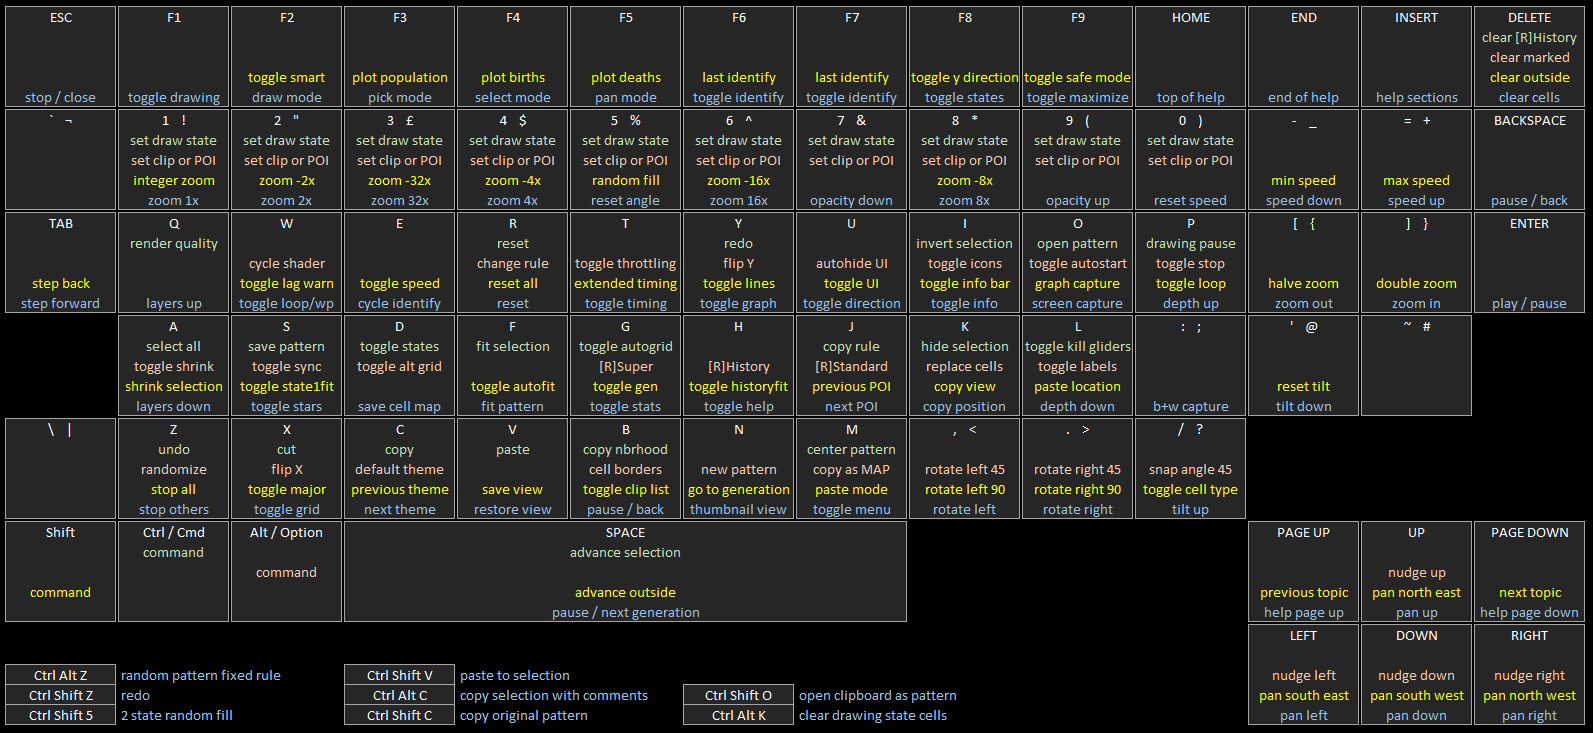
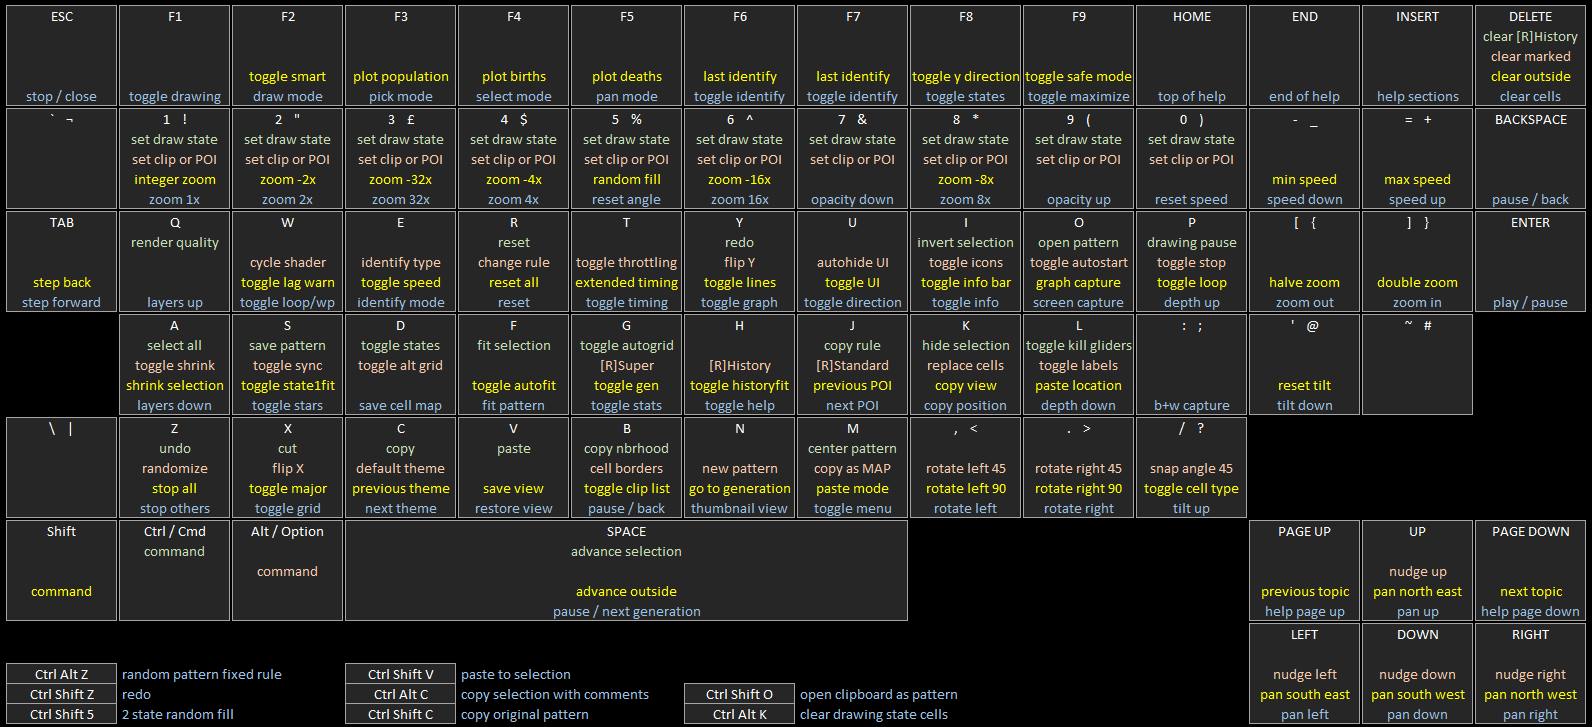
fixed Identify results UI issues

diff --git a/js/lifeview.js b/js/lifeview.js
@@ -74,12 +74,12 @@ This file is part of LifeViewer
 	ViewConstants = {
 		// identify display modes
 		/** @const {number} */ identifyDisplayResults : 0,
-		/** @const {number} */ identifyDisplayPeriod: 1,
-		/** @const {number} */ identifyDisplayFrequency : 2,
+		/** @const {number} */ identifyDisplayTable: 1,
+		/** @const {number} */ identifyDisplayMap : 2,
 
 		// identify display type
-		/** @const {number} */ identifyDisplayTable : 0,
-		/** @const {number} */ identifyDisplayMap : 1,
+		/** @const {number} */ identifyDisplayPeriod : 0,
+		/** @const {number} */ identifyDisplayFrequency : 1,
 
 		// settings prefix
 		/** @const {string} */ settingsPrefix : "LV",
@@ -336,7 +336,7 @@ This file is part of LifeViewer
 		/** @const {string} */ externalViewerTitle : "LifeViewer",
 
 		// build version
-		/** @const {number} */ versionBuild : 1254,
+		/** @const {number} */ versionBuild : 1255,
 
 		// standard edition name
 		/** @const {string} */ standardEdition : "Standard",
@@ -1001,11 +1001,11 @@ This file is part of LifeViewer
 		// refresh rate
 		/** @type {number} */ this.refreshRate = Controller.refreshRate;
 
-		// identify display mode (results, periods or frequencies)
+		// identify display mode (results, table or map)
 		/** @type {number} */ this.identifyDisplayMode = ViewConstants.identifyDisplayResults;
 
 		// identify display type for periods or frequencies
-		/** @type {number} */ this.identifyDisplayType = ViewConstants.identifyDisplayTable;
+		/** @type {number} */ this.identifyDisplayType = ViewConstants.identifyDisplayPeriod;
 
 		// last failure reason from PatternManager
 		/** @type {string} */ this.lastFailReason = "";
@@ -4751,7 +4751,7 @@ This file is part of LifeViewer
 
 	// download cell period map
 	View.prototype.downloadCellMap = function(/** @type {View} */ me) {
-		var	/** @type {HTMLCanvasElement} */ cellCanvas = me.identifyDisplayMode === ViewConstants.identifyDisplayPeriod ? me.engine.cellPeriodCanvas : me.engine.cellFrequencyCanvas;
+		var	/** @type {HTMLCanvasElement} */ cellCanvas = me.identifyDisplayType === ViewConstants.identifyDisplayPeriod ? me.engine.cellPeriodCanvas : me.engine.cellFrequencyCanvas;
 
 		// create a link
 		if (me.lastIdentifyType !== "Oscillator") {
@@ -7163,20 +7163,20 @@ This file is part of LifeViewer
 			// don't display if Help, Errors or Settings open
 			if (me.displayHelp === 0 && me.displayErrors === 0 && me.navToggle.current[0] === false) {
 				switch (me.identifyDisplayMode) {
-					case ViewConstants.identifyDisplayPeriod:
-						if (me.identifyDisplayType === ViewConstants.identifyDisplayTable) {
+					case ViewConstants.identifyDisplayTable:
+						if (me.identifyDisplayType === ViewConstants.identifyDisplayPeriod) {
 							// draw cell period table below the main banner
 							me.engine.drawCellPeriodTable(me.identifyBannerLabel);
 						} else {
-							// draw cell period map
-							me.engine.drawCellPeriodMap(me.identifyBannerLabel);
+							// draw cell period frequency below the main banner
+							me.engine.drawCellFrequencyTable(me.identifyBannerLabel);
 						}
 						break;
 
-					case ViewConstants.identifyDisplayFrequency:
-						if (me.identifyDisplayType === ViewConstants.identifyDisplayTable) {
-							// draw cell period frequency below the main banner
-							me.engine.drawCellFrequencyTable(me.identifyBannerLabel);
+					case ViewConstants.identifyDisplayMap:
+						if (me.identifyDisplayType === ViewConstants.identifyDisplayPeriod) {
+							// draw cell period map
+							me.engine.drawCellPeriodMap(me.identifyBannerLabel);
 						} else {
 							// draw cell frequency map
 							me.engine.drawCellFrequencyMap(me.identifyBannerLabel);
@@ -7423,12 +7423,12 @@ This file is part of LifeViewer
 		this.identifyModeToggle.deleted = hide || !this.resultsDisplayed || this.engine.cellPeriod === null || settingsMenuOpen;
 		this.identifyTypeToggle.deleted = hide || !this.resultsDisplayed || this.engine.cellPeriod === null || settingsMenuOpen;
 		this.identifySaveCellMapButton.deleted = hide || !this.resultsDisplayed || this.engine.cellPeriod === null || settingsMenuOpen;
-		this.identifySaveCellMapButton.locked = !(this.identifyDisplayMode !== ViewConstants.identifyDisplayResults && this.identifyDisplayType === ViewConstants.identifyDisplayMap);
+		this.identifySaveCellMapButton.locked = (this.identifyDisplayMode !== ViewConstants.identifyDisplayMap);
 
 		// identify results
-		shown = shown || !(this.identifyDisplayMode === ViewConstants.identifyDisplayResults || this.identifyDisplayType === ViewConstants.identifyDisplayTable);
+		shown = shown || this.identifyDisplayMode === ViewConstants.identifyDisplayMap; 
 		this.identifyBannerLabel.deleted = shown;
-		shown = shown || this.identifyDisplayMode !== ViewConstants.identifyDisplayResults;
+		shown = shown || (this.lastIdentifyType === "Oscillator" && this.identifyDisplayMode !== ViewConstants.identifyDisplayResults);
 		this.identifyCellsLabel.deleted = shown;
 		this.identifyBoxLabel.deleted = shown || (this.engine.isHex || this.engine.isTriangular);
 		this.identifyDirectionLabel.deleted = shown || (this.lastIdentifyType !== "Spaceship") || (this.engine.isHex || this.engine.isTriangular);
@@ -7453,7 +7453,7 @@ This file is part of LifeViewer
 		this.identifyVolatilityValueLabel.deleted = shown || (this.lastIdentifyType !== "Oscillator");
 
 		// identify page up and down buttons
-		shown = hide || !this.resultsDisplayed || (!((this.identifyDisplayMode === ViewConstants.identifyDisplayPeriod || this.identifyDisplayMode === ViewConstants.identifyDisplayFrequency) && this.identifyDisplayType === ViewConstants.identifyDisplayTable) || this.engine.tableMaxRow === 0 || settingsMenuOpen);
+		shown = hide || !this.resultsDisplayed || (this.identifyDisplayMode !== ViewConstants.identifyDisplayTable) || this.engine.tableMaxRow === 0 || settingsMenuOpen;
 		this.identifyPageUpButton.deleted = shown;
 		this.identifyPageDownButton.deleted = shown;
 
@@ -11429,7 +11429,7 @@ This file is part of LifeViewer
 							me.dragErrors(me, y);
 						} else {
 							// check if Cell Period Table or Cell Frequency Table are displayed
-							if (me.resultsDisplayed && ((me.identifyDisplayMode === ViewConstants.identifyDisplayPeriod || me.identifyDisplayMode === ViewConstants.identifyDisplayFrequency) && me.identifyDisplayType === ViewConstants.identifyDisplayTable) && me.engine.tableMaxRow !== 0) {
+							if (me.resultsDisplayed && (me.identifyDisplayMode === ViewConstants.identifyDisplayTable) && me.engine.tableMaxRow !== 0) {
 								me.dragTable(me, y);
 							} else {
 								// check if panning
@@ -16867,11 +16867,11 @@ This file is part of LifeViewer
 
 	// update identify display
 	View.prototype.updateIdentifyDisplay = function() {
-		if (this.identifyDisplayType === ViewConstants.identifyDisplayTable) {
-			if (this.identifyDisplayMode === ViewConstants.identifyDisplayPeriod) {
+		if (this.identifyDisplayMode === ViewConstants.identifyDisplayTable) {
+			if (this.identifyDisplayType === ViewConstants.identifyDisplayPeriod) {
 				this.engine.createPeriodTableRowNumbers(this.identifyBannerLabel);
 			} else {
-				if (this.identifyDisplayMode === ViewConstants.identifyDisplayFrequency) {
+				if (this.identifyDisplayType === ViewConstants.identifyDisplayFrequency) {
 					this.engine.createFrequencyTableRowNumbers(this.identifyBannerLabel);
 				}
 			}
@@ -18352,12 +18352,12 @@ This file is part of LifeViewer
 		this.identifyCloseButton.toolTip = "close results [Esc]";
 
 		// identify results display mode
-		this.identifyModeToggle = this.viewMenu.addListItem(this.toggleIdentifyDisplayMode, Menu.northEast, -40, 45, 40, 120, ["Res", "Per", "Frq"], this.identifyDisplayMode, Menu.single);
+		this.identifyModeToggle = this.viewMenu.addListItem(this.toggleIdentifyDisplayMode, Menu.northEast, -40, 45, 40, 120, ["Res", "Tbl", "Map"], this.identifyDisplayMode, Menu.single);
 		this.identifyModeToggle.toolTip = ["show Identify results [Shift F6]", "cell periods [E]", "cell frequencies [E]"];
 		this.identifyModeToggle.setFont("15px Arial");
 		this.identifyModeToggle.textOrientation = Menu.horizontal;
 
-		this.identifyTypeToggle = this.viewMenu.addListItem(this.toggleIdentifyDisplayType, Menu.northEast, -40, 45, 40, 80, ["Tbl", "Map"], this.identifyDisplayType, Menu.single);
+		this.identifyTypeToggle = this.viewMenu.addListItem(this.toggleIdentifyDisplayType, Menu.northEast, -40, 45, 40, 80, ["Per", "Frq"], this.identifyDisplayType, Menu.single);
 		this.identifyTypeToggle.toolTip = ["table [" + this.altKeyText + " E]", "map [" + this.altKeyText + " E]"];
 		this.identifyTypeToggle.setFont("15px Arial");
 		this.identifyTypeToggle.textOrientation = Menu.horizontal;
@@ -19807,6 +19807,10 @@ This file is part of LifeViewer
 		if (me.starField) {
 			me.starField.starColour = new Colour(255, 255, 255);
 		}
+
+		// reset identify display mode and type
+		me.identifyModeToggle.current = me.toggleIdentifyDisplayMode(ViewConstants.identifyDisplayResults, true, me);
+		me.identifyTypeToggle.current = me.toggleIdentifyDisplayType(ViewConstants.identifyDisplayPeriod, true, me);
 
 		// disable HROT non-deterministic mode
 		me.engine.HROT.useRandom = false;

diff --git a/js/keys.js b/js/keys.js
@@ -361,11 +361,11 @@ This file is part of LifeViewer
 
 					// e for toggle identify display type
 					case 69:
-						// toggle identify display type (table or map)
+						// toggle identify display type (period or frequency)
 						if (me.lastIdentifyType === "Oscillator" && me.engine.cellPeriod !== null) {
 							me.identifyDisplayType += 1;
-							if (me.identifyDisplayType > ViewConstants.identifyDisplayMap) {
-								me.identifyDisplayType = ViewConstants.identifyDisplayTable;
+							if (me.identifyDisplayType > ViewConstants.identifyDisplayFrequency) {
+								me.identifyDisplayType = ViewConstants.identifyDisplayPeriod;
 							}
 							me.identifyTypeToggle.current = me.toggleIdentifyDisplayType(me.identifyDisplayType, true, me);
 						}
@@ -861,7 +861,7 @@ This file is part of LifeViewer
 							// toggle identify display mode
 							if (me.lastIdentifyType === "Oscillator" && me.engine.cellPeriod !== null) {
 								me.identifyDisplayMode += 1;
-								if (me.identifyDisplayMode > ViewConstants.identifyDisplayFrequency) {
+								if (me.identifyDisplayMode > ViewConstants.identifyDisplayMap) {
 									me.identifyDisplayMode = ViewConstants.identifyDisplayResults;
 								}
 								me.identifyModeToggle.current = me.toggleIdentifyDisplayMode(me.identifyDisplayMode, true, me);
